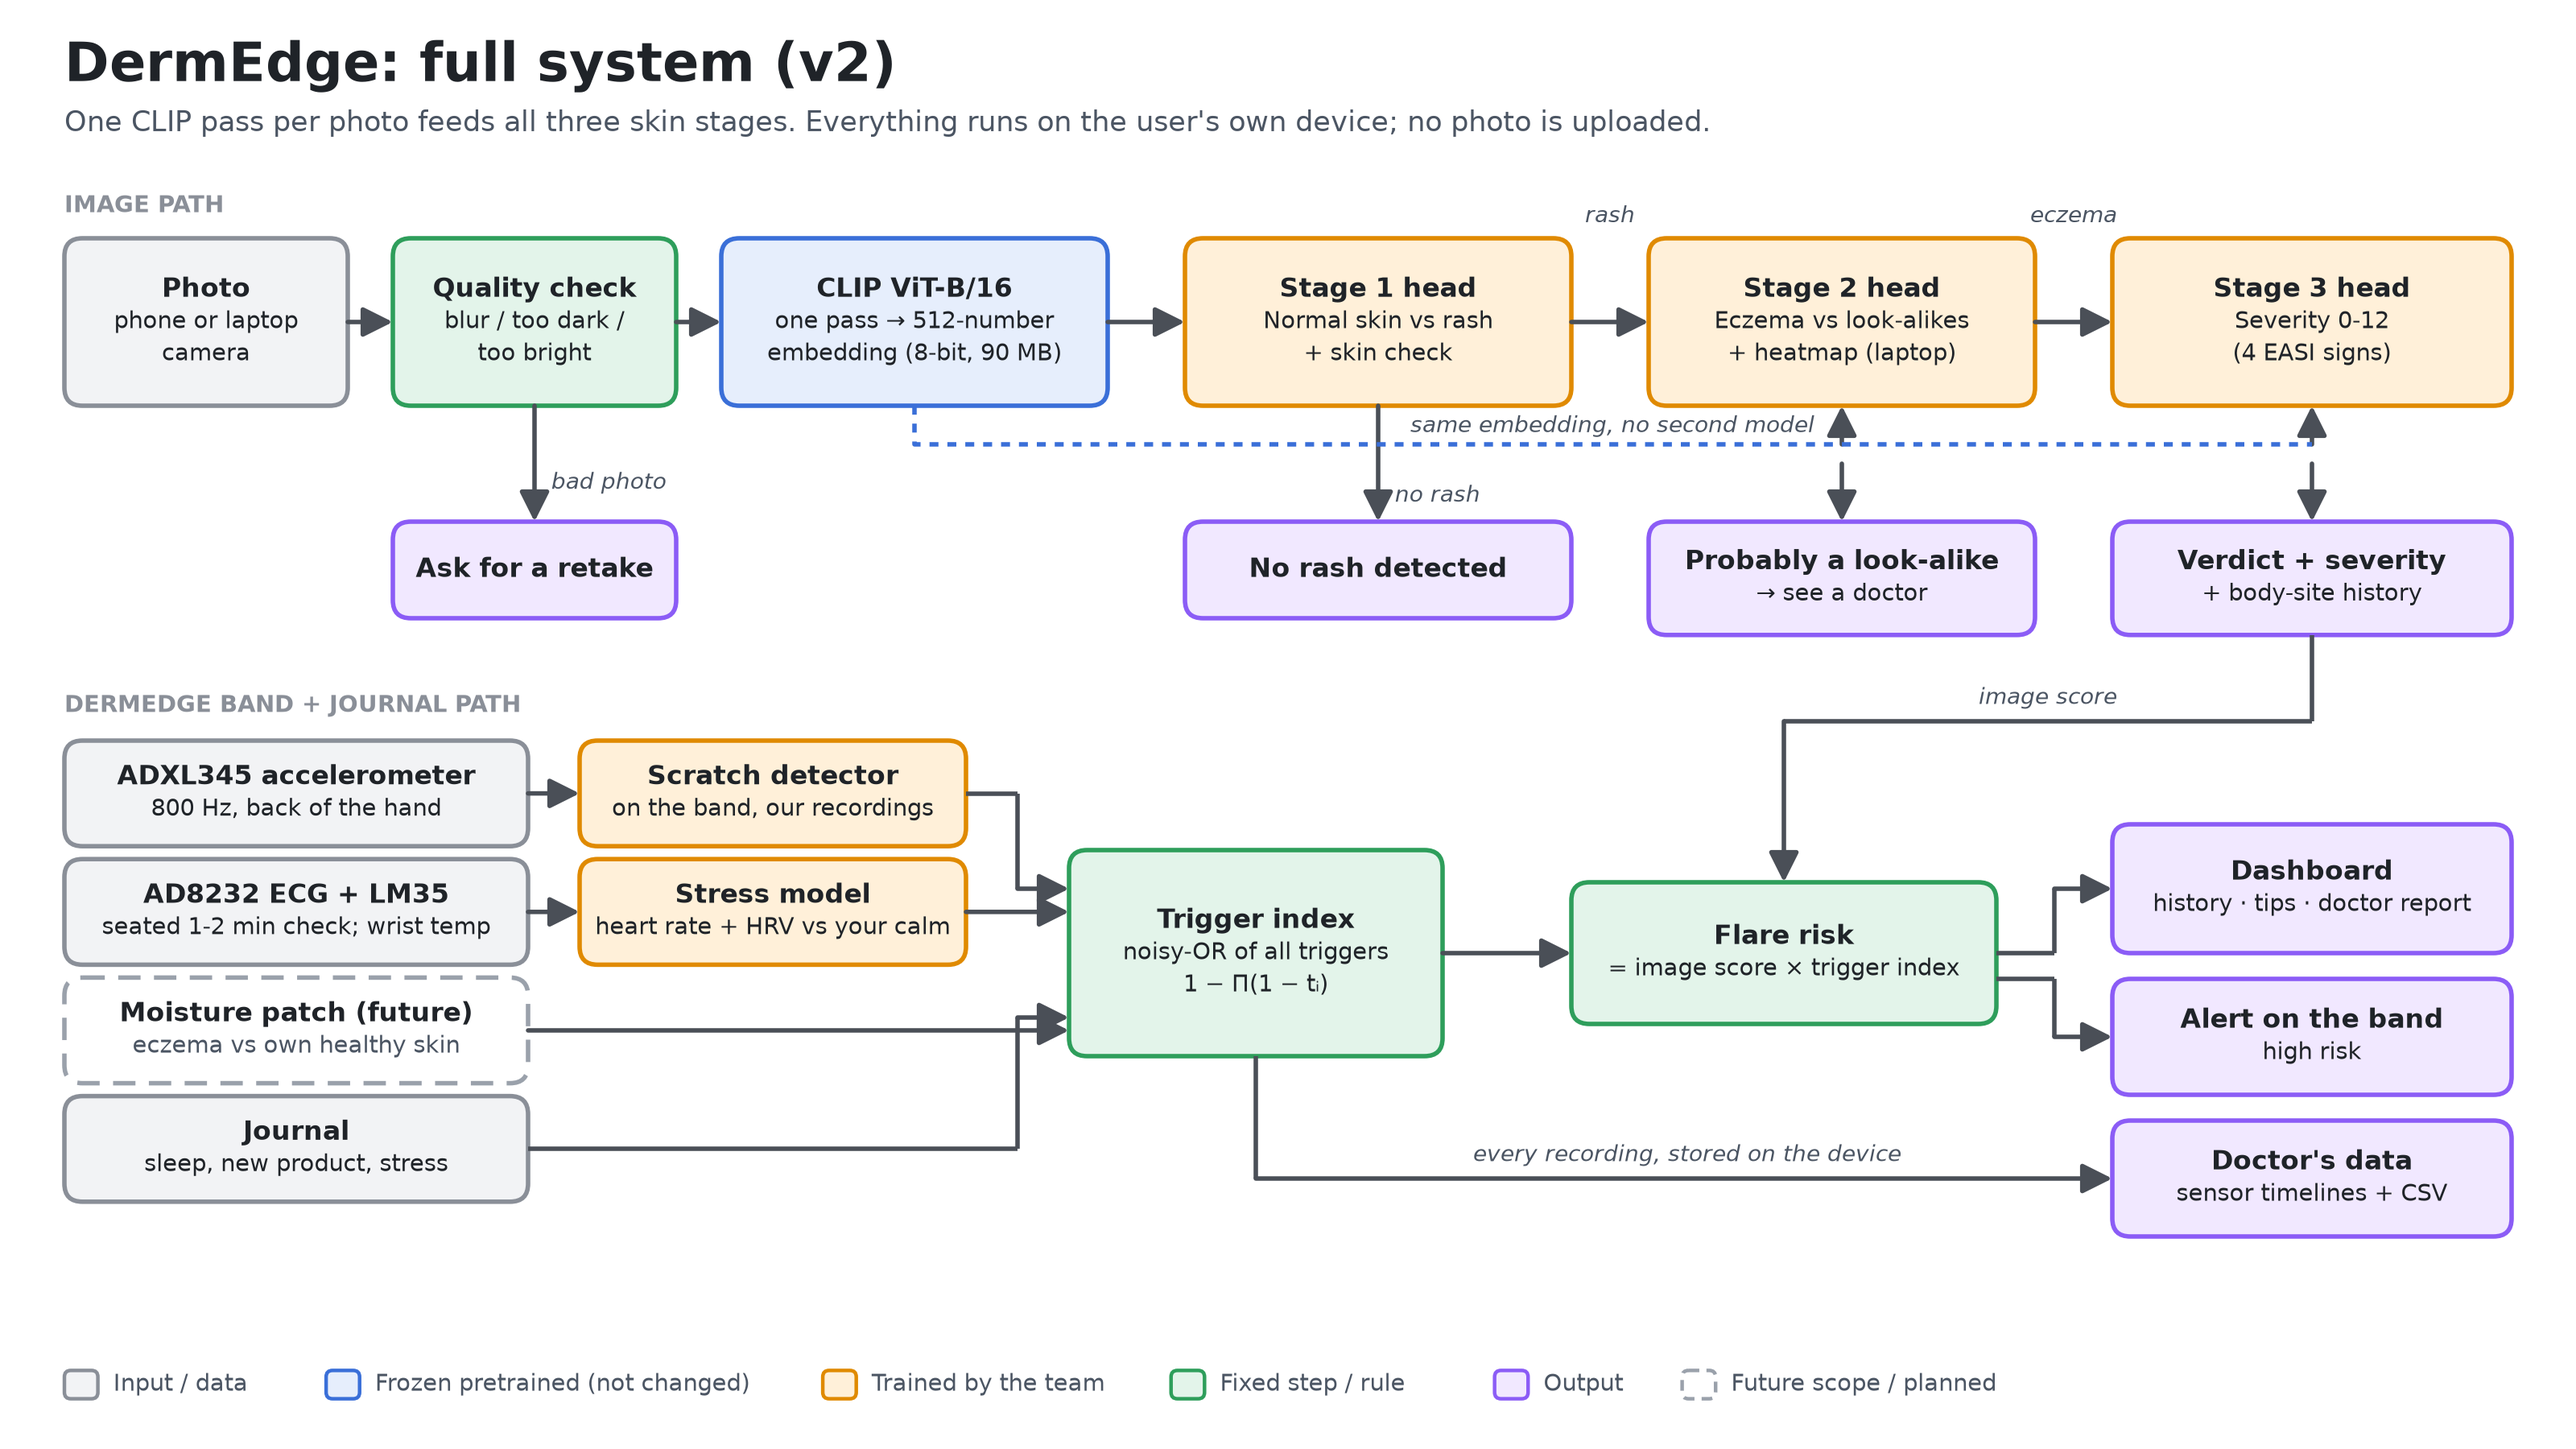
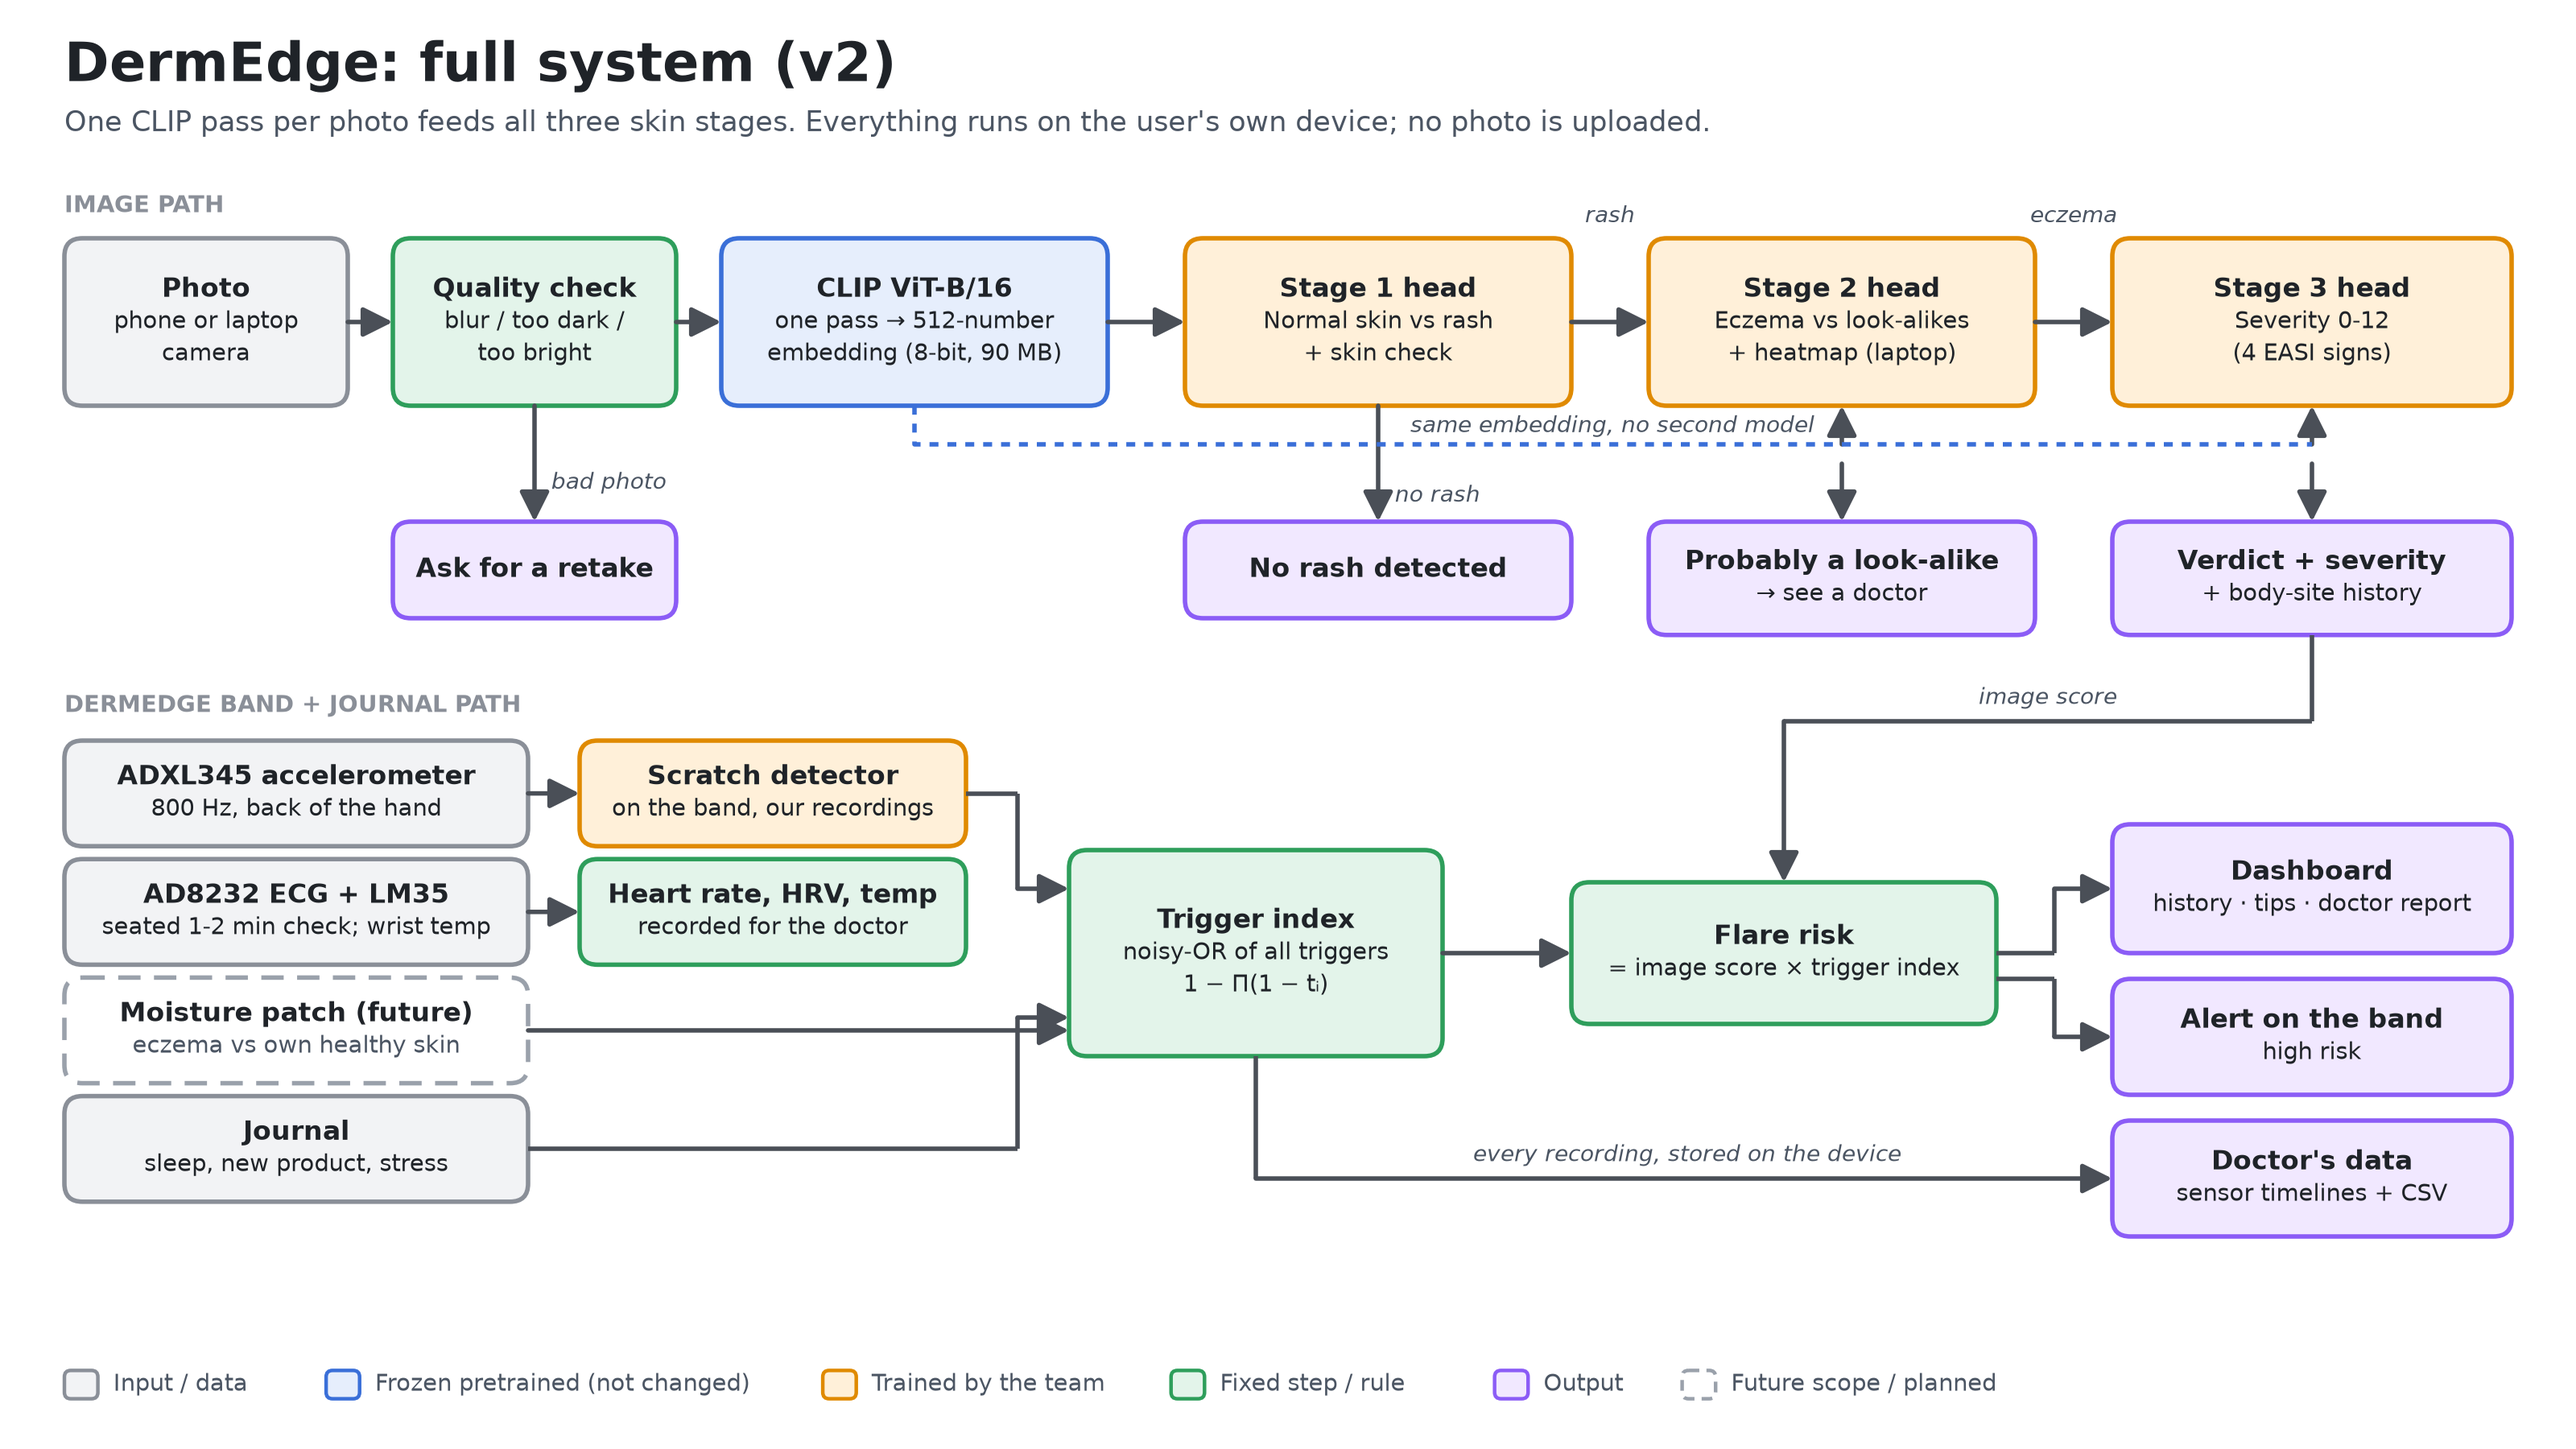
Drop the stress-model claims: the band collects data for the doctor, Southampton is the one sensor result
No model is trained or shown on our own sensors. The ECG gives heart rate and HRV, recorded
for the doctor, alongside the LM35's temperature, and models come once data pools. The deck,
the final-stretch plan and the v2 full-system and band diagrams now say so. Tishya's ECG
stress-model task is removed from the plan.

Southampton is described as what it is: a threshold classifier (eczema patch drier than the
same patient's healthy skin) that flags eczema skin in 13 of 13 patients, not a trained model.

Changed region(s): [[0.2188, 0.5911, 0.4062, 0.6844]]

diff --git a/scripts/draw_pitch_v2.py b/scripts/draw_pitch_v2.py
@@ -61,14 +61,13 @@ def full_system():
     box(ax, 50, 575, 360, 82, "input", "ADXL345 accelerometer", "800 Hz, back of the hand")
     box(ax, 450, 575, 300, 82, "trained", "Scratch detector", "on the band, our recordings")
     box(ax, 50, 667, 360, 82, "input", "AD8232 ECG + LM35", "seated 1-2 min check; wrist temp")
-    box(ax, 450, 667, 300, 82, "trained", "Stress model", "heart rate + HRV vs your calm")
+    box(ax, 450, 667, 300, 82, "rule", "Heart rate, HRV, temp", "recorded for the doctor")
     box(ax, 50, 759, 360, 82, "future", "Moisture patch (future)", "eczema vs own healthy skin")
     box(ax, 50, 851, 360, 82, "input", "Journal", "sleep, new product, stress")
     arrow(ax, (410, 616), (450, 616))
     arrow(ax, (410, 708), (450, 708))
     box(ax, 830, 660, 290, 160, "rule", "Trigger index", "noisy-OR of all triggers", "1 − Π(1 − tᵢ)")
     arrow(ax, (750, 616), (790, 616), (790, 690), (830, 690))
-    arrow(ax, (750, 708), (830, 708))
     arrow(ax, (410, 800), (830, 800), dashed=True)
     arrow(ax, (410, 892), (790, 892), (790, 790), (830, 790))
     box(ax, 1220, 685, 330, 110, "rule", "Flare risk", "= image score × trigger index")
@@ -241,7 +240,7 @@ def band_data_loop():
     box(ax, 50, 405, 330, 95, "input", "LM35", "wrist skin temperature")
     box(ax, 430, 185, 330, 95, "trained", "Scratch episodes", "detected on the band")
     box(ax, 430, 295, 330, 95, "rule", "Heart rate + HRV", "from R-peaks")
-    box(ax, 430, 405, 330, 95, "rule", "Temperature", "vs your calm baseline")
+    box(ax, 430, 405, 330, 95, "rule", "Temperature", "recorded for the doctor")
     for y in (232, 342, 452):
         arrow(ax, (380, y), (430, y))
     box(ax, 820, 280, 300, 125, "rule", "Bluetooth LE", "encrypted, passkey-paired", "buffers offline")
@@ -263,13 +262,13 @@ def band_data_loop():
          "· Moisture sensor read lower on eczema skin: 13 of 13",
          "· Corneometer hydration lower: 13 of 13 (by 12–55%)",
          "· Water loss (TEWL) higher: 7 of 7",
-         "A paired rule (patch vs own healthy skin) flags all 13.",
-         "Known biomarkers work; what's missing is everyday data.")
+         "Our threshold classifier on this data (patch vs own",
+         "healthy skin) flags all 13. What's missing is everyday data.")
     note(ax, 1030, 590, 920, 300, "What the band already does",
          "Scratch detection on the band: 22 of 26 scratch clips found",
          "across 7 people, each tested by a model that never saw them",
-         "ECG check: heart rate and HRV against your own calm",
-         "baseline; LM35 wrist temperature alongside",
+         "ECG check: heart rate and HRV, recorded for the doctor;",
+         "LM35 wrist temperature alongside",
          "Live readings in the app; flare alerts on the band's screen",
          "Every recording kept for the doctor, never uploaded",
          "")

diff --git a/docs/FINAL_STRETCH.md b/docs/FINAL_STRETCH.md
@@ -6,6 +6,15 @@ is derm-edge.vercel.app (the v2 skin model is live).
 
 Tick items off in this file as you go (edit, commit, push), so everyone sees the state.
 
+**The story for the sensors (decided):** we don't train or show a model on our own sensors. The
+band **collects data for the doctor** (scratching, heart rate and HRV from the ECG, skin
+temperature), and models come later once that data pools. The one sensor-to-eczema result we
+quote is **Southampton**: a threshold classifier built on their data (eczema patch drier than the
+same patient's healthy skin) flags eczema skin in **13 of 13 patients**. Call it a "threshold
+classifier", not a trained or neural model: 13 patients is too few to train one, and a simple
+rule already separates all 13. The scratch detector on the band is the only model we trained
+on our own recordings (22 of 26 scratch clips, 7 people).
+
 ## Order of work (do them in this order)
 
 | # | When | Who | What |
@@ -56,7 +65,8 @@ flow) and keep the numbers as slide text.
 - Old numbers are gone: no "81.1%", no "AUC 0.93", no "67% → 83% calibration", no "ResNet18 / Grad-CAM".
 - Say "built and tested for South Asian skin", never "best for South Asian skin" (no published comparison exists).
 - Keep the small footnote on the market slide: Google's numbers are a different task.
-- No stress accuracy for the ECG (its model isn't trained); say "heart rate and HRV".
+- No stress model and no stress accuracy: the ECG gives "heart rate and HRV, recorded for the doctor".
+- Southampton: "threshold classifier, 13 of 13 patients", never "we trained a model".
 - Severity: say "within one band 97.6% of the time", not "dermatologist-labelled" (still checking who labelled it).
 
 **Check with the team:** the footer says "Finale · MGUMST Jaipur". Confirm the round's exact name
@@ -99,9 +109,8 @@ music over speech. Export MP4 1080p; also keep A and B as separate files in case
 - [ ] A flare alert reaches the band's screen; double tap dismisses it
 - [ ] Spare: USB cable, a power bank that powers the band, spare electrodes, tape
 
-**Decide by 3 am:** the ECG stress model. If it isn't trained and tested by then, present ECG as
-"heart rate and HRV recorded for the doctor, a stress model once we have data", which matches the
-pitch (we collect data first, models come later). Tell Shreeya which way it goes.
+**No model to train.** The ECG and LM35 only need to read reliably and show up on the website:
+the pitch says the band collects data for the doctor, and models come later.
 
 **Video part B (band), per PITCH_DECK.md slide 4:** power on and pairing code → start a
 recording from the touch pad → scratching → the website's count goes up → ECG and temperature
@@ -131,10 +140,10 @@ judges" section of PITCH_DECK.md together once.
 **Tishya: the hardware and sensors**
 - ESP32, BLE with a 6-digit passkey (encrypted), offline buffering, the band's screen and touch pad
 - ADXL345 scratch detection: 800 Hz, the rhythm and frequency features, the 7-person leave-one-person-out result and its limits (acted scratching, not eczema at night)
-- AD8232 ECG: Lead I across both wrists, R-peaks → heart rate; HRV (RMSSD) and why it falls under stress; lead-off detection
-- LM35: 10 mV/°C, calibration, why skin temperature is a stress input and not an eczema signal
-- The Southampton study: 13 patients, moisture sensor lower on eczema skin in 13/13, Corneometer 13/13, TEWL higher 7/7; why moisture is future scope on our band
-- WESAD (15 people, stress protocol) and why no dataset links wearables to eczema flares
+- AD8232 ECG: Lead I across both wrists, R-peaks → heart rate; HRV (RMSSD) and what a doctor reads from it (stress and sleep load); lead-off detection
+- LM35: 10 mV/°C, calibration, why it's recorded as context and not used as an eczema signal
+- The Southampton study: 13 patients, moisture sensor lower on eczema skin in 13/13, Corneometer 13/13, TEWL higher 7/7; our threshold classifier on it (13/13) and why it's a rule, not a trained model; why moisture is future scope on our band
+- Why no public dataset links wearables to eczema flares, and so why the band collects data first (the collect → doctor validates → model automates loop)
 
 **Shreeya: the problem, the clinic, the market**
 - Eczema burden (GBD 2017, 204 million, 8.5% of Central Indian school children), look-alikes (psoriasis, tinea, scabies) and why telling them apart matters for treatment

diff --git a/docs/PITCH_DECK.md b/docs/PITCH_DECK.md
@@ -64,7 +64,7 @@ no scratching or stress data, and the apps that exist upload photos to the cloud
 
 **DermEdge = a camera check + a wearable band + a doctor report, all on your own device.**
 - **Is there a rash? Is it eczema? How severe?** Three answers from one photo, in the browser
-- **The DermEdge band** records scratching, stress (ECG) and skin temperature, and shows alerts
+- **The DermEdge band** records scratching, heart rate and HRV (ECG) and skin temperature for the doctor, and shows alerts
 - **Tracks every body site over time**, with treatments, triggers and a printable doctor report
 - **Private:** no photo leaves the device; works offline once installed
 
@@ -130,8 +130,8 @@ reviews → data pools → models learn, with the Southampton evidence box).
 
 **ON THE BAND**
 - **ADXL345 accelerometer** on the back of the hand: scratch detection running on the ESP32
-- **AD8232 ECG**, a 1-2 minute seated check with electrodes on both wrists: heart rate and HRV for stress
-- **LM35 skin temperature**: a stress input
+- **AD8232 ECG**, a 1-2 minute seated check with electrodes on both wrists: heart rate and HRV, recorded for the doctor
+- **LM35 skin temperature**: recorded alongside
 - Touch pad, 1.8" screen for alerts, encrypted Bluetooth, about 20 hours of offline storage
 
 **KNOWN BIOMARKERS CAN FLAG ECZEMA: THE SOUTHAMPTON STUDY**
@@ -140,22 +140,23 @@ We analysed the Southampton e-textile study (13 patients with eczema, University
 - The wearable moisture sensor read lower on eczema skin in **13 of 13 patients**
 - The clinical standard (Corneometer) agreed in **13 of 13**; water loss (TEWL) was higher in **7 of 7**
 
-So a wearable reading of skin barrier biomarkers separates eczema skin from healthy skin. This is
-the basis for a moisture patch on a future band.
+From this data we built a threshold classifier (eczema patch drier than the same patient's healthy
+skin) that flags eczema skin in **13 of 13 patients**. So a wearable reading of skin barrier
+biomarkers can detect eczema, and this is the basis for a moisture patch on a future band.
 
 ## 10. From data to diagnosis
 
 **TODAY: THE BAND COLLECTS THE DATA**
 No public dataset pairs our sensors (scratching, ECG, skin temperature) with eczema outcomes. So
 the band records them, and the website charts each recording with a CSV download: a doctor reads
-scratching at night, stress and temperature next to the photo history.
+scratching at night, heart rate, HRV and temperature next to the photo history.
 
 **NEXT: DOCTORS LABEL, THE DATA POOLS**
 Every recording a doctor reviews becomes labelled data: this night, this flare, this severity.
 
 **THEN: A MODEL AUTOMATES IT**
-Once enough data pools up, a model learns the patterns, as we did for stress from WESAD and for
-scratching from our own recordings. The doctor then only confirms.
+Once enough data pools up, a model learns the patterns, as we did for scratching from our own
+recordings and for skin barrier readings from the Southampton study. The doctor then only confirms.
 
 Visual: the loop in `docs/architecture/v2_5_band_data_loop.png` (shared with slide 9), or three steps left to right:
 **Collect → Doctor validates → Model automates**.
@@ -233,8 +234,11 @@ Know these so no question catches us out:
   79 conditions on Google's data.
 - **Severity labels** cover four EASI signs on curated photos, not a dermatologist's full EASI. Ask Tishya who labelled
   them (they sit in a `dead_ends/eczema_severity_proxy_attempt` folder) before calling them dermatologist-labelled.
-- **Stress:** the ECG model is being retrained on WESAD's chest ECG (Tishya); the old GSR model was
-  90% accurate, 73% of stress caught, leave-one-person-out.
+- **Stress:** we don't claim a stress model. The ECG gives heart rate and HRV, recorded for the doctor;
+  a model comes once labelled data pools. (Earlier we built one on WESAD's skin conductance: 90%
+  accurate, leave-one-person-out. The band switched to ECG, so it isn't on the band.)
+- **Southampton** is a threshold classifier (patch vs the same patient's healthy skin), not a trained
+  neural network: 13 patients is too few to train one, and a simple rule already separates all 13.
 - **Flare risk** is a stated rule (image score × noisy-OR of triggers), not a trained model.
 
 Sources: [MedSigLIP model card](https://huggingface.co/google/medsiglip-448) ·
